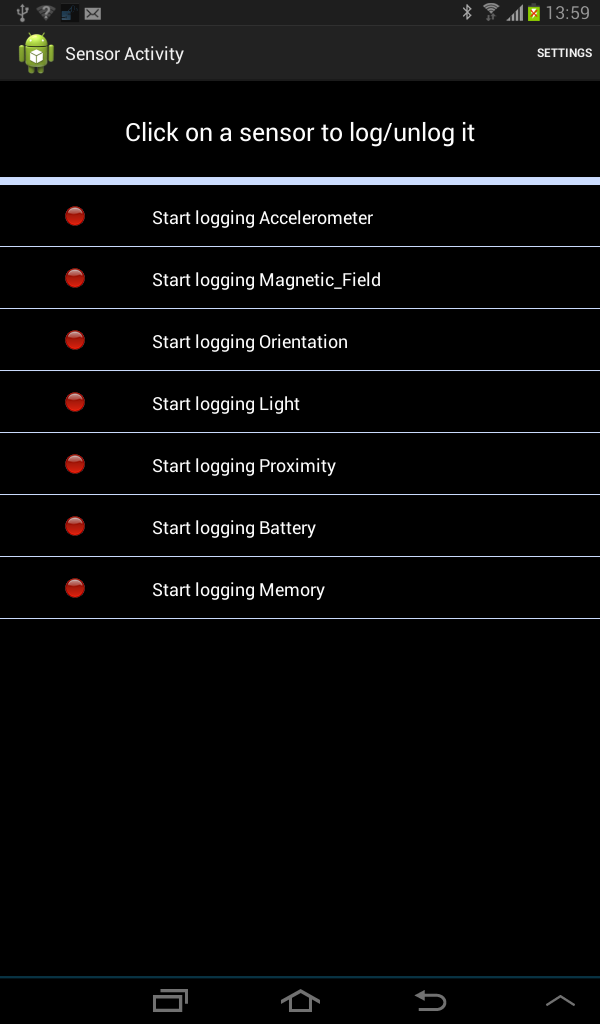
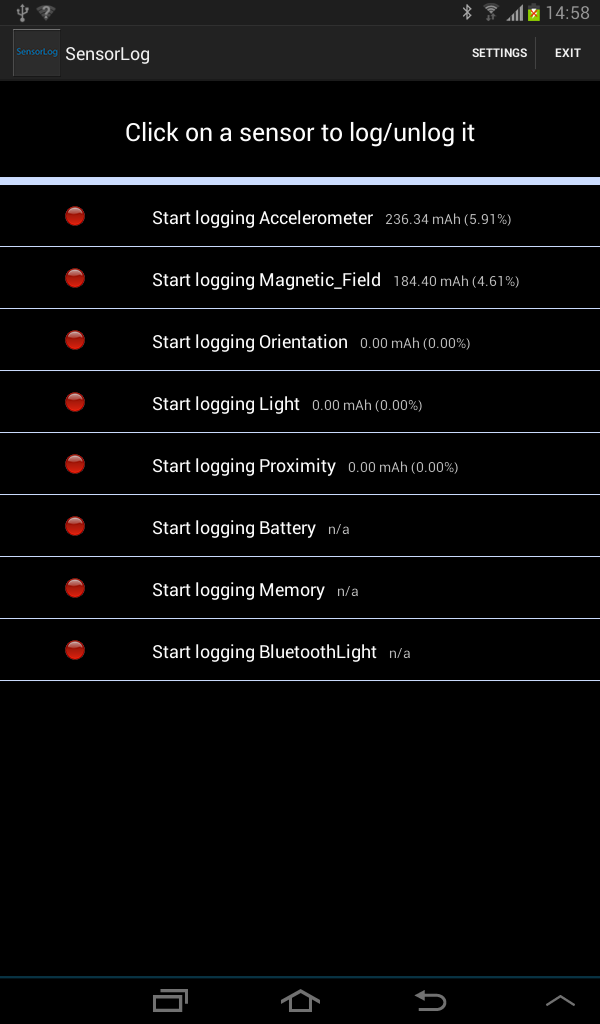
Readme

diff --git a/sensappdroid-clientsamples/sensorlog/src/main/java/org/sensapp/android/sensappdroid/clientsamples/sensorlogger/SensorManagerService.java b/sensappdroid-clientsamples/sensorlog/src/main/java/org/sensapp/android/sensappdroid/clientsamples/sensorlogger/SensorManagerService.java
@@ -4,7 +4,6 @@ import android.app.Notification;
 import android.app.NotificationManager;
 import android.app.PendingIntent;
 import android.app.Service;
-import android.bluetooth.BluetoothAdapter;
 import android.content.Context;
 import android.content.Intent;
 import android.content.SharedPreferences;
@@ -45,15 +44,12 @@ public class SensorManagerService extends Service {
     @Override
     public void onCreate(){
         super.onCreate();
-        final BluetoothAdapter mBluetoothAdapter = BluetoothAdapter.getDefaultAdapter();
-        if (mBluetoothAdapter == null) {
-            // Device does not support Bluetooth
-        }
-        if (!mBluetoothAdapter.isEnabled()) {
-            Intent enableBtIntent = new Intent(BluetoothAdapter.ACTION_REQUEST_ENABLE);
-            startActivity(enableBtIntent);
-        }
-        AbstractSensorLoggerTask.setUpSensors(getApplicationContext(), (SensorManager) getSystemService(SENSOR_SERVICE), mBluetoothAdapter);
+        // we loose some time here, but this prevent code duplication as we use the code from
+        // the activity
+        while(SensorActivity.ME == null);
+        SensorActivity.ME.connectBluetooth();
+        AbstractSensorLoggerTask.setUpSensors(getApplicationContext(), (SensorManager) getSystemService(SENSOR_SERVICE),
+                SensorActivity.ME.mBluetoothAdapter);
     }
 
     @Override

diff --git a/sensappdroid-clientsamples/sensorlog/src/main/java/org/sensapp/android/sensappdroid/clientsamples/sensorlogger/sensorlog/AbstractSensorLoggerTask.java b/sensappdroid-clientsamples/sensorlog/src/main/java/org/sensapp/android/sensappdroid/clientsamples/sensorlogger/sensorlog/AbstractSensorLoggerTask.java
@@ -100,6 +100,7 @@ public abstract class AbstractSensorLoggerTask extends TimerTask{
         FreeMemorySensor fms = new FreeMemorySensor(compositeName);
         setUpSensor(fms, sp, c);
 
+        //Add the Bluetooth Light sensor
         BluetoothSensor bts = new BluetoothSensor(compositeName, "BluetoothLight", bt, "FireFly-4101");
         setUpSensor(bts, sp, c);
     }

diff --git a/README.md b/README.md
@@ -2,8 +2,15 @@ SensorLog
 ============================
 
 The SensorLog android application is a client for SensApp android Application. It is an example of what clients can do to log data into SensApp android application.
+
 This client can find every sensors (referenced like this by Android) contained in the android host system. These sensors can be logged, or not by a simple click on the row attached.
+
 There is also some other "sensors" implemented which show that every kind of data can be logged using this client by implementing a simple class file.
+We can see some systems sensors (battery, memory) and bluetooth sensor (BluetoothLight).
+
+This last sensor (BluetoothLight) is a light sensor plugged to an Arduino. This Arduino is managed by the Android using a bluetooth connexion.
+
+The sensors will log infinitely if you let them "on". To shut the application down easily, use the "Exit" button.
 
 Download
 ---------------------
